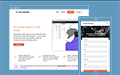
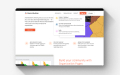
Districtbuilder image replacements

diff --git a/_projects/districtbuilder.md b/_projects/districtbuilder.md
@@ -17,8 +17,8 @@ hero:
   title: "DistrictBuilder"
   tagline: "Giving power back to the people"
   desc: |
-    Brand and website redesign for a free, open source redistricting tool that recently underwent a significant rebuild and product launch.
-  image: "districtbuilder/districtbuilder_featured.png"
+    Brand and website for an open source redistricting tool.
+  image: "districtbuilder/districtbuilder_hero.png"
   image-alt: "Screenshot of DistrictBuilder marketing website."
   image-size: "cropped"
   roles: "Logo, identity, marketing strategy, website design and development"
